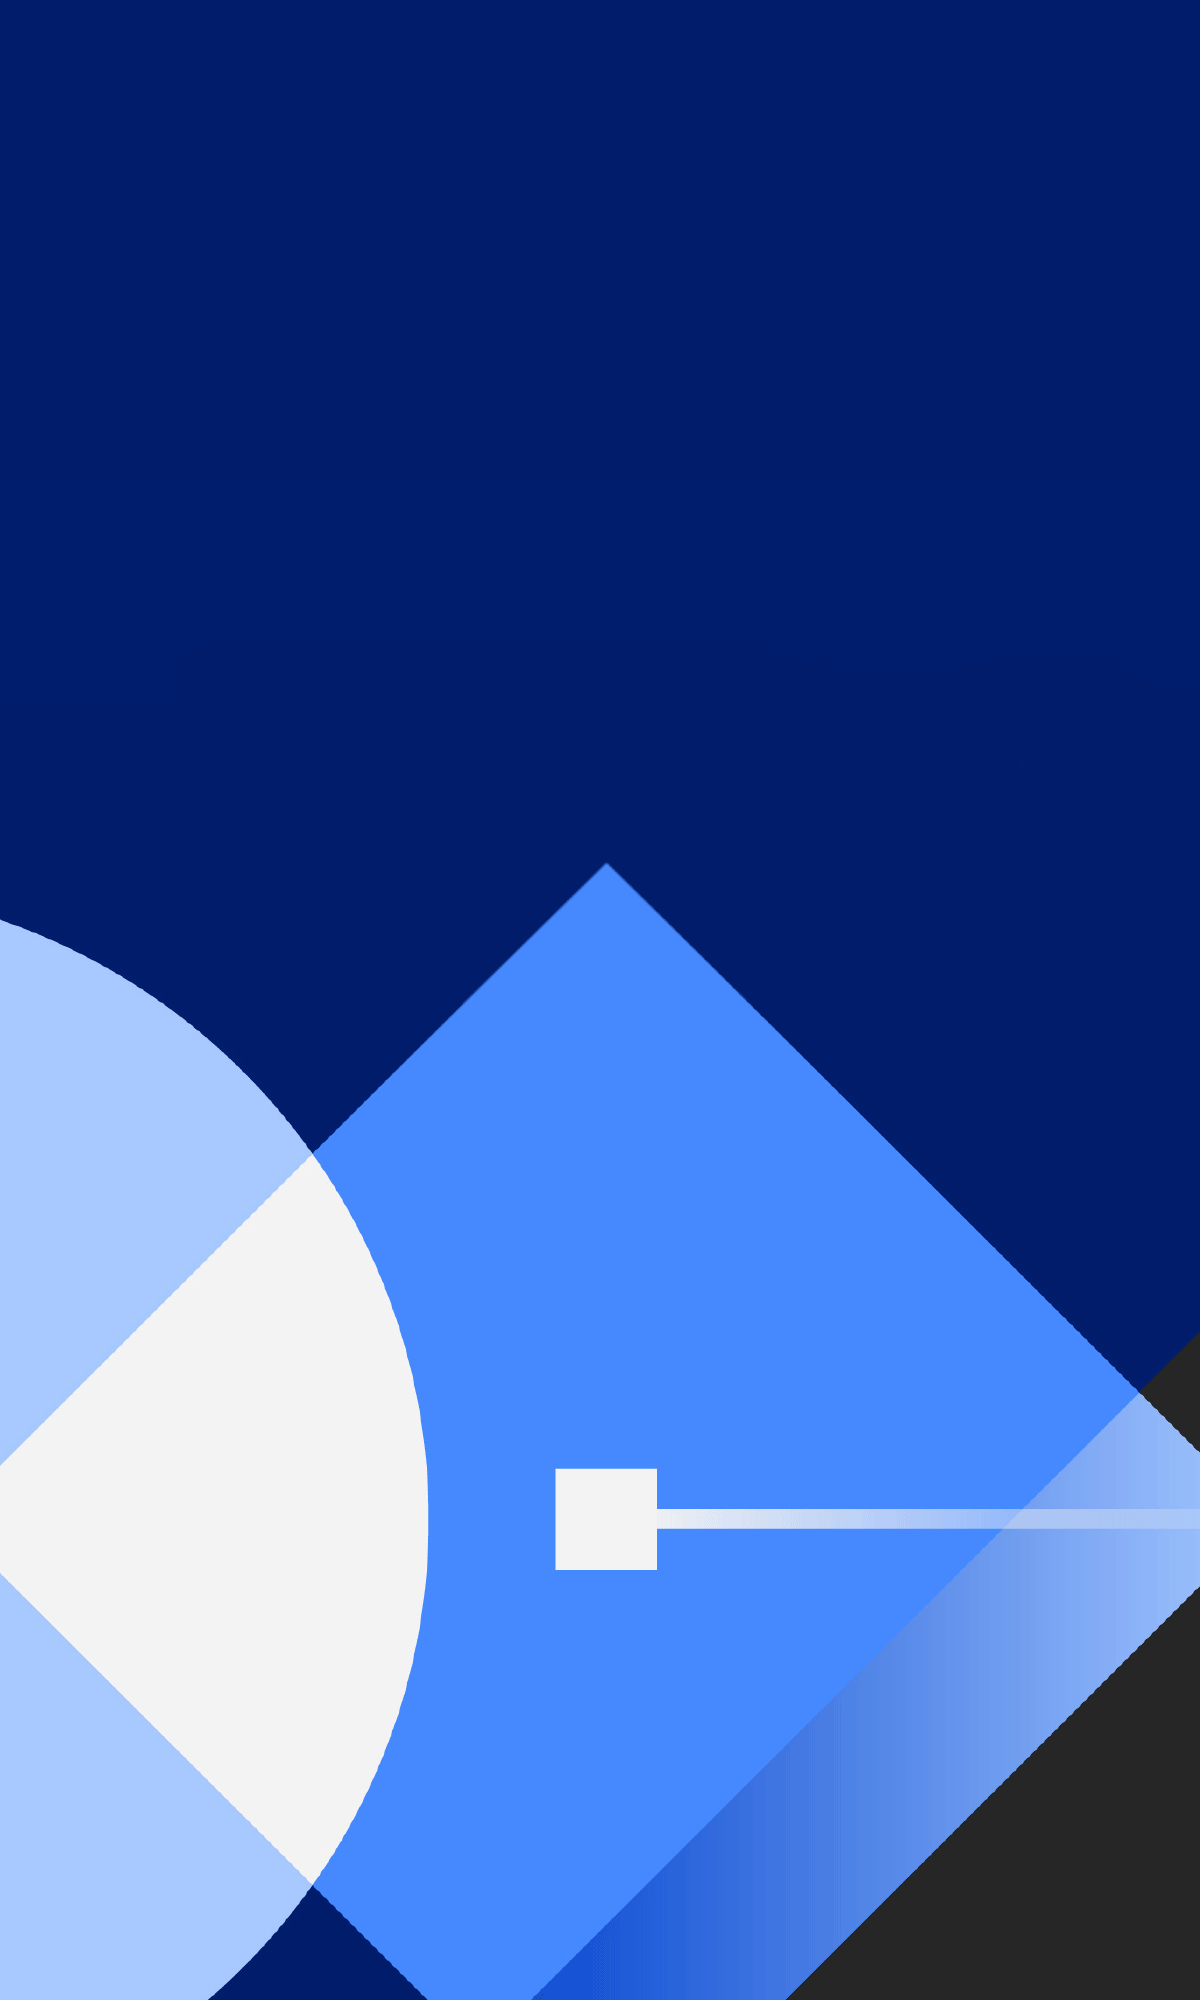
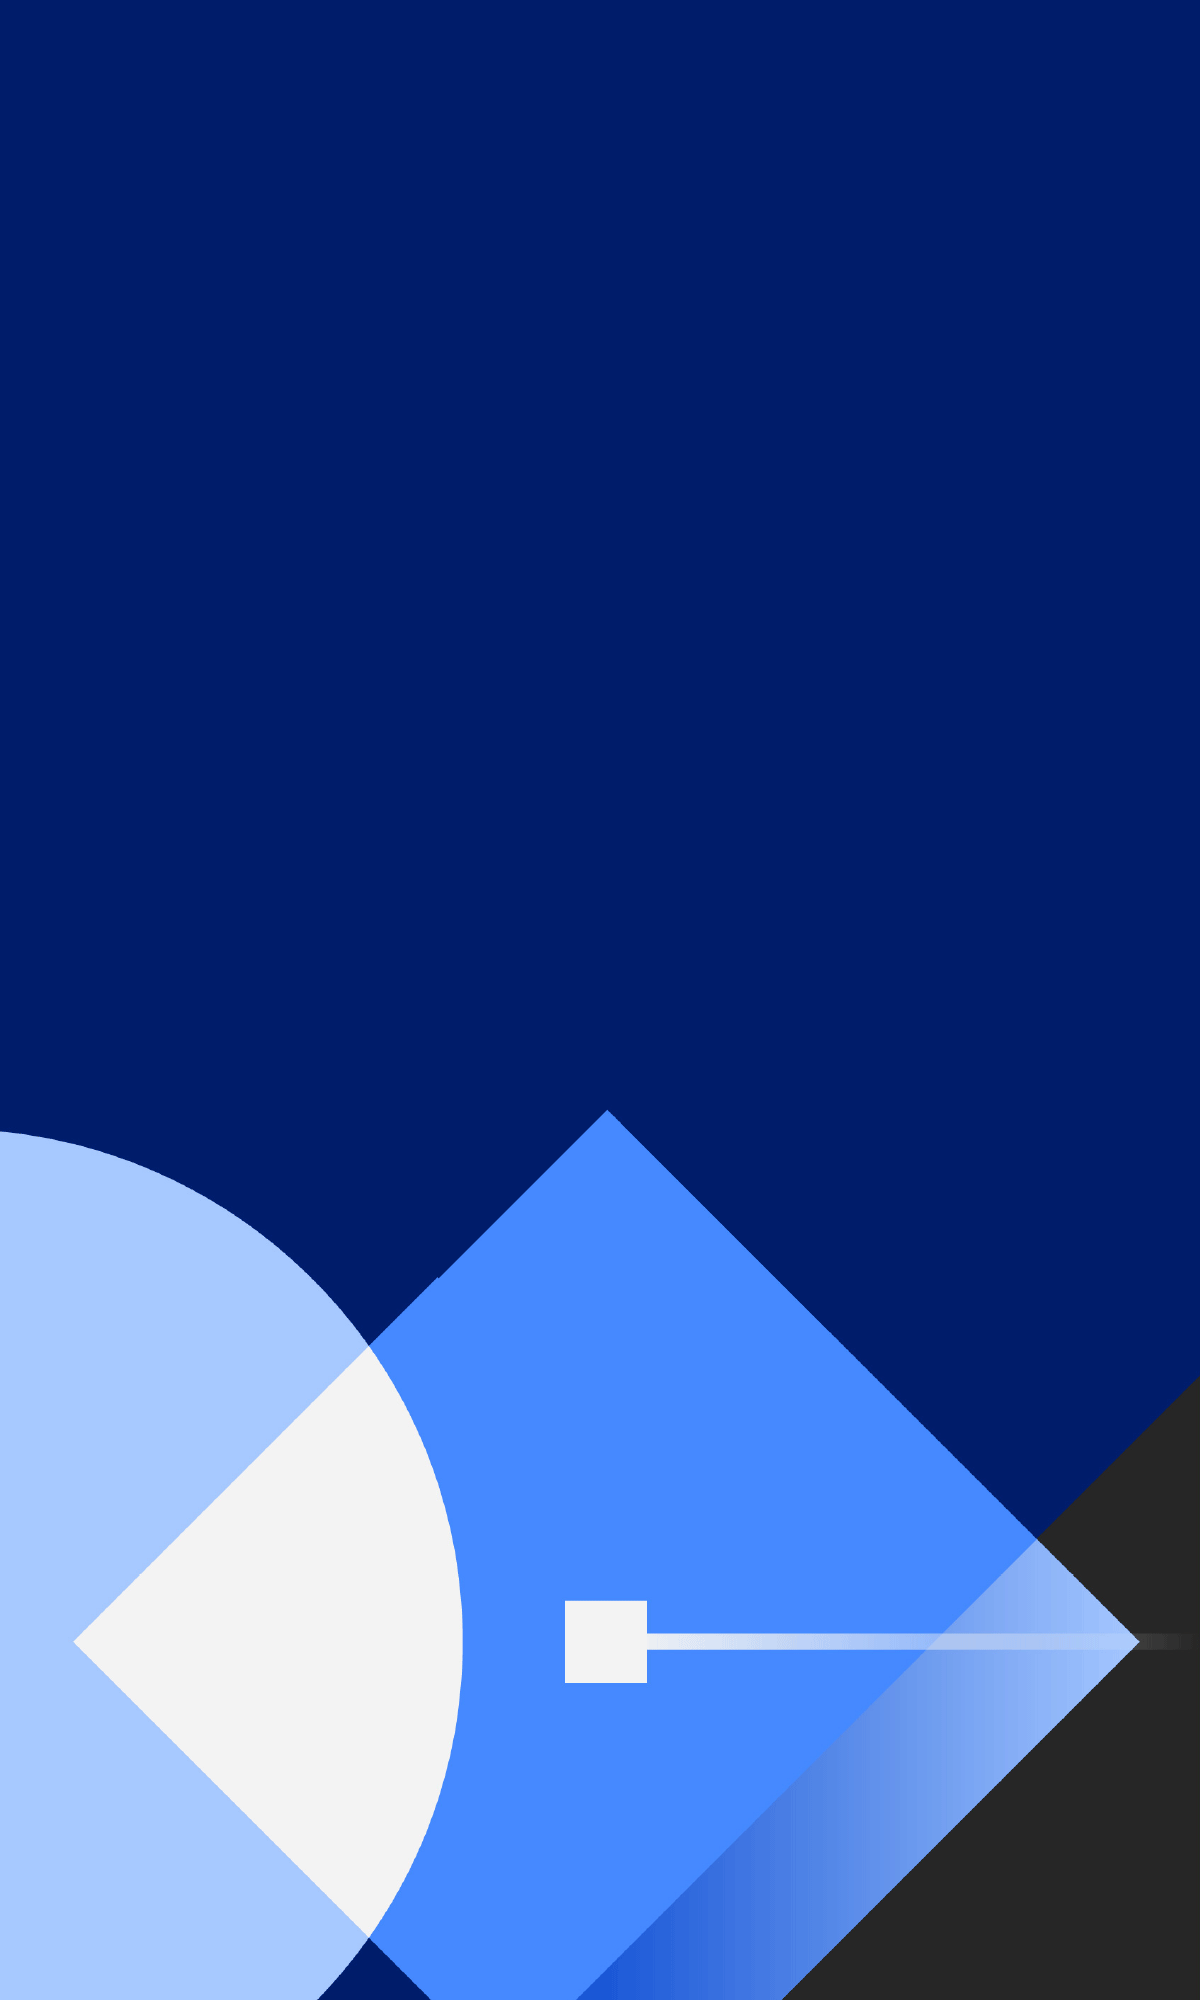
Adjust stage styles

Changed region(s): [[0.0, 0.434, 1.0, 1.0], [0.6475, 0.992, 0.6783, 1.0], [0.3392, 0.992, 0.37, 1.0]]

diff --git a/src/components/Stage/index.js b/src/components/Stage/index.js
@@ -1,10 +1,8 @@
-import React from 'react';
-import PropTypes from 'prop-types';
-import Image from 'next/image';
+import { Column, Grid, Row } from 'carbon-components-react';
 import clsx from 'clsx';
-
-import { Row, Grid, Column } from 'carbon-components-react';
-
+import Image from 'next/image';
+import PropTypes from 'prop-types';
+import React from 'react';
 import Styles from './styles.module.scss';
 
 const Stage = ({ heading, subheading, image, imageMobile, isHome }) => {
@@ -36,7 +34,10 @@ const Stage = ({ heading, subheading, image, imageMobile, isHome }) => {
 						<Column sm={4}>
 							<div className={clsx(Styles.HeadingWrapper, isHome && Styles.HeadingWrapperHome)}>
 								{heading && (
-									<h1 className={Styles.Heading} dangerouslySetInnerHTML={{ __html: heading }} />
+									<h1
+										className={clsx(Styles.Heading, isHome && Styles.HeadingHome)}
+										dangerouslySetInnerHTML={{ __html: heading }}
+									/>
 								)}
 								{subheading && (
 									<h2

diff --git a/src/components/Stage/styles.module.scss b/src/components/Stage/styles.module.scss
@@ -8,7 +8,7 @@
 	display: block;
 	width: 100vw;
 	height: auto;
-	min-height: 75vh;
+	min-height: 85vh;
 	background: $blue-90;
 
 	@include bp('md') {
@@ -21,20 +21,22 @@
 
 	.HeadingWrapper {
 		position: absolute;
-		top: 65%;
+		bottom: 10%;
 		z-index: 2;
 		color: $white-0;
 
 		@include bp('md') {
 			position: absolute;
 			top: 50%;
+			bottom: auto;
 			transform: translate3d(0, -50%, 0);
 		}
 	}
 
 	.HeadingWrapperHome {
 		@include bp('md', true) {
-			top: 15%;
+			top: 18%;
+			bottom: auto;
 		}
 	}
 
@@ -42,10 +44,14 @@
 		@include carbon--type-style('expressive-heading-05', true);
 
 		margin-bottom: $spacing-05;
+		font-size: 2.625rem;
+	}
+
+	.HeadingHome {
 		font-size: 3rem;
 
 		@include bp('md') {
-			font-size: 3rem;
+			font-size: 4rem;
 		}
 	}
 

diff --git a/src/data/page/anwendungssysteme.js b/src/data/page/anwendungssysteme.js
@@ -46,18 +46,18 @@ module.exports = req => {
 			{
 				name: 'Stage',
 				props: {
-					heading: 'Banking durch<br />Technologie<br />transformieren',
+					heading: 'Anwendungs&shy;systeme<br />modernisieren',
 					image: {
 						src: '/img/stage-process-transformation.jpg',
 						width: 1056,
 						height: 386,
-						alt: 'Risikosteuerung im Banking',
+						alt: 'Anwendungssysteme modernisieren',
 					},
 					imageMobile: {
 						src: '/img/stage-process-transformation-mobile.jpg',
 						width: 672,
 						height: 672,
-						alt: 'Risikosteuerung im Banking',
+						alt: 'Anwendungssysteme modernisieren',
 					},
 				},
 			},

diff --git a/src/data/page/risk-compliance.js b/src/data/page/risk-compliance.js
@@ -47,18 +47,18 @@ module.exports = req => {
 			{
 				name: 'Stage',
 				props: {
-					heading: 'Risikosteuerung<br /> im Banking',
+					heading: 'Risik & Compliance<br />nachhaltig steuern',
 					image: {
 						src: '/img/stage-process-transformation.jpg',
 						width: 1056,
 						height: 386,
-						alt: 'Risikosteuerung im Banking',
+						alt: 'Risik & Compliance nachhaltig steuern',
 					},
 					imageMobile: {
 						src: '/img/stage-process-transformation-mobile.jpg',
 						width: 672,
 						height: 672,
-						alt: 'Risikosteuerung im Banking',
+						alt: 'Risik & Compliance nachhaltig steuern',
 					},
 				},
 			},

diff --git a/src/data/page/prozess-transformation.js b/src/data/page/prozess-transformation.js
@@ -46,18 +46,18 @@ module.exports = req => {
 			{
 				name: 'Stage',
 				props: {
-					heading: 'Prozess-Transformation<br/> im Banking',
+					heading: 'Prozesse<br />transformieren',
 					image: {
 						src: '/img/stage-process-transformation.jpg',
 						width: 1056,
 						height: 386,
-						alt: 'Prozess-Transformation im Banking',
+						alt: 'Prozesse transformieren',
 					},
 					imageMobile: {
 						src: '/img/stage-process-transformation-mobile.jpg',
 						width: 672,
 						height: 672,
-						alt: 'Prozess-Transformation im Banking',
+						alt: 'Prozesse transformieren',
 					},
 				},
 			},

diff --git a/src/data/page/index.js b/src/data/page/index.js
@@ -661,7 +661,7 @@ module.exports = req => {
 										name: 'LetsTalkTeaser',
 										props: {
 											headline: 'Jean-Henrik Zitterbart',
-											copy: 'Partner<br />Banking & Financial Markets DACH',
+											copy: 'Industry Leader<br />Banking & Financial Markets DACH',
 											image: {
 												src: '/img/people/jean.jpg',
 												width: 288,
